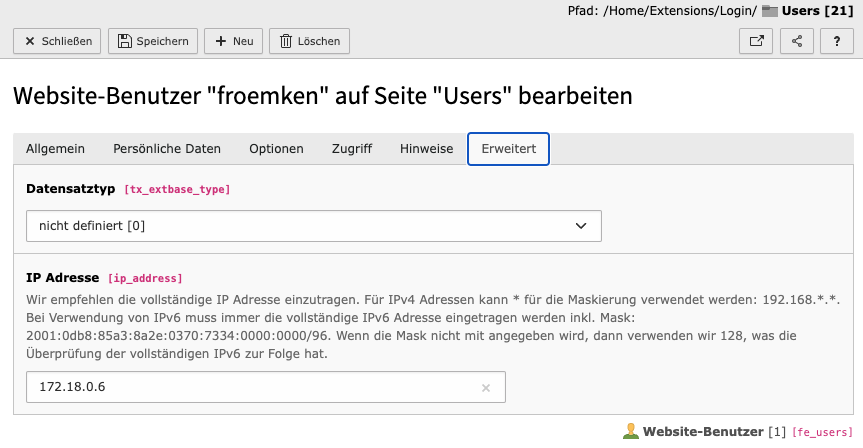
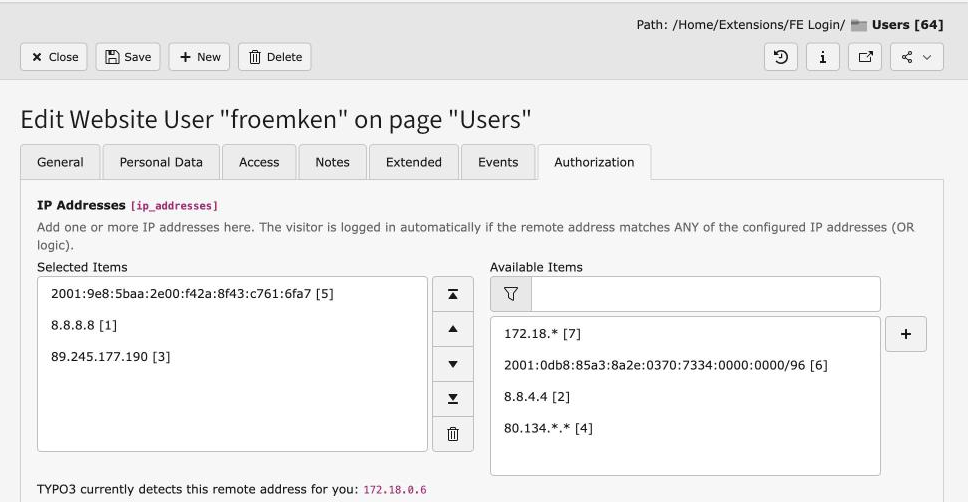
Fix remote address detection and refresh docs screenshot (#15)
* [DOCS] Update outdated screenshot and widen it

Replace the Introduction screenshot with a current one
showing the new Authorization tab and IP Addresses field on
TYPO3 13. Switch from image to figure, drop the fixed
400px width so it uses the full content width, and add a
caption and lightbox zoom.

* [BUGFIX] Detect exactly one remote address, not two

A single HTTP request only ever carries one REMOTE_ADDR of
one address family. The previous code additionally treated
an IPv4-mapped IPv6 notation (::ffff:x.x.x.x) as if it were
a second, independently detected address, which conflated a
formatting quirk of a single connection with a visitor
actually having both an IPv4 and an IPv6 address.

Simplify RemoteAddressDetector::detect() to return the one
address TYPO3 actually resolved, still labelled with its
version. The remoteAddress field wizard and the ip_address
valuePicker share this single detector, so both were fixed
in one place.

---------

diff --git a/Classes/Form/FormDataProvider/AddDetectedIpAddressesToValuePicker.php b/Classes/Form/FormDataProvider/AddDetectedIpAddressesToValuePicker.php
@@ -11,19 +11,23 @@ declare(strict_types=1);
 
 namespace JWeiland\Jwauth\Form\FormDataProvider;
 
+use JWeiland\Jwauth\Service\RemoteAddressDetector;
 use TYPO3\CMS\Backend\Form\FormDataProviderInterface;
 use TYPO3\CMS\Core\Localization\LanguageService;
-use TYPO3\CMS\Core\Utility\GeneralUtility;
 
 /**
  * Adds the visitor's currently detected remote address to the valuePicker of
- * the ip_address field, so editors can pick it up directly instead of looking
- * it up separately.
+ * the ip_address field, so editors can pick it up directly instead of
+ * looking it up separately.
  */
 final class AddDetectedIpAddressesToValuePicker implements FormDataProviderInterface
 {
     private const TABLE_NAME = 'tx_jwauth_domain_model_ipaddress';
     private const FIELD_NAME = 'ip_address';
+
+    public function __construct(
+        private readonly RemoteAddressDetector $remoteAddressDetector,
+    ) {}
 
     public function addData(array $result): array
     {
@@ -33,60 +37,33 @@ final class AddDetectedIpAddressesToValuePicker implements FormDataProviderInter
             return $result;
         }
 
-        $detectedAddresses = $this->getDetectedIpAddresses();
-        if ($detectedAddresses === []) {
+        $detectedAddress = $this->remoteAddressDetector->detect();
+        if ($detectedAddress === null) {
             return $result;
         }
 
         $existingItems = $result['processedTca']['columns'][self::FIELD_NAME]['config']['valuePicker']['items'] ?? [];
         $result['processedTca']['columns'][self::FIELD_NAME]['config']['valuePicker']['items'] = array_merge(
             $existingItems,
-            $detectedAddresses,
+            [$this->buildValuePickerItem($detectedAddress)],
         );
 
         return $result;
     }
 
     /**
-     * A dual-stack webserver may expose an IPv4 client through an IPv4-mapped
-     * IPv6 address (e.g. "::ffff:203.0.113.5"). In that case, offer both
-     * notations, since an address stored in the other notation would not
-     * match it with GeneralUtility::cmpIP().
-     *
-     * @return list<array{0: string, 1: string}>
-     */
-    private function getDetectedIpAddresses(): array
-    {
-        $remoteAddress = GeneralUtility::getIndpEnv('REMOTE_ADDR');
-        if (!GeneralUtility::validIP($remoteAddress)) {
-            return [];
-        }
-
-        if (preg_match('/^::ffff:(\d+\.\d+\.\d+\.\d+)$/i', $remoteAddress, $matches)) {
-            return [
-                $this->buildValuePickerItem('valuePicker.detectedIpv6Address', $remoteAddress),
-                $this->buildValuePickerItem('valuePicker.detectedIpv4Address', $matches[1]),
-            ];
-        }
-
-        $labelKey = str_contains($remoteAddress, ':') ? 'valuePicker.detectedIpv6Address' : 'valuePicker.detectedIpv4Address';
-
-        return [
-            $this->buildValuePickerItem($labelKey, $remoteAddress),
-        ];
-    }
-
-    /**
+     * @param array{version: string, address: string} $detectedAddress
      * @return array{0: string, 1: string}
      */
-    private function buildValuePickerItem(string $labelKey, string $ipAddress): array
+    private function buildValuePickerItem(array $detectedAddress): array
     {
+        $labelKey = $detectedAddress['version'] === 'IPv6' ? 'valuePicker.detectedIpv6Address' : 'valuePicker.detectedIpv4Address';
         $label = sprintf(
             $this->getLanguageService()->sL('LLL:EXT:jwauth/Resources/Private/Language/locallang_db.xlf:' . $labelKey),
-            $ipAddress,
+            $detectedAddress['address'],
         );
 
-        return [$label, $ipAddress];
+        return [$label, $detectedAddress['address']];
     }
 
     private function getLanguageService(): LanguageService

diff --git a/Classes/Form/FieldWizard/RemoteAddress.php b/Classes/Form/FieldWizard/RemoteAddress.php
@@ -11,28 +11,37 @@ declare(strict_types=1);
 
 namespace JWeiland\Jwauth\Form\FieldWizard;
 
+use JWeiland\Jwauth\Service\RemoteAddressDetector;
 use TYPO3\CMS\Backend\Form\AbstractNode;
 use TYPO3\CMS\Core\Localization\LanguageService;
-use TYPO3\CMS\Core\Utility\GeneralUtility;
 
 /**
- * Shows the REMOTE_ADDR TYPO3 currently resolves for the visitor below the
- * IP address field. Helpful, as e.g. reverse proxies or local Docker setups
- * let $_SERVER['REMOTE_ADDR'] differ heavily from the address a user should
- * configure in ip_addresses/ip_address.
+ * Shows the remote address TYPO3 currently resolves for the visitor below
+ * the IP address field. Helpful, as e.g. reverse proxies or local Docker
+ * setups let $_SERVER['REMOTE_ADDR'] differ heavily from the address a user
+ * should configure in ip_addresses/ip_address.
  */
 class RemoteAddress extends AbstractNode
 {
+    public function __construct(
+        private readonly RemoteAddressDetector $remoteAddressDetector,
+    ) {}
+
     public function render(): array
     {
         $result = $this->initializeResultArray();
 
-        $label = $this->getLanguageService()->sL(
-            'LLL:EXT:jwauth/Resources/Private/Language/locallang_db.xlf:fieldWizard.remoteAddress',
-        );
-        $remoteAddress = htmlspecialchars(strip_tags(GeneralUtility::getIndpEnv('REMOTE_ADDR')));
+        $detectedAddress = $this->remoteAddressDetector->detect();
+        if ($detectedAddress === null) {
+            return $result;
+        }
 
-        $result['html'] = '<div class="form-text">' . htmlspecialchars($label) . ' <code>' . $remoteAddress . '</code></div>';
+        $label = sprintf(
+            $this->getLanguageService()->sL('LLL:EXT:jwauth/Resources/Private/Language/locallang_db.xlf:fieldWizard.remoteAddress'),
+            $detectedAddress['version'],
+        );
+
+        $result['html'] = '<div class="form-text">' . htmlspecialchars($label) . ' <code>' . htmlspecialchars($detectedAddress['address']) . '</code></div>';
 
         return $result;
     }

diff --git a/Classes/Service/RemoteAddressDetector.php b/Classes/Service/RemoteAddressDetector.php
@@ -1,0 +1,41 @@
+<?php
+
+declare(strict_types=1);
+
+/*
+ * This file is part of the package jweiland/jwauth.
+ *
+ * For the full copyright and license information, please read the
+ * LICENSE file that was distributed with this source code.
+ */
+
+namespace JWeiland\Jwauth\Service;
+
+use TYPO3\CMS\Core\Utility\GeneralUtility;
+
+/**
+ * Detects the visitor's remote address as resolved by TYPO3. Used by the
+ * remoteAddress field wizard and by AddDetectedIpAddressesToValuePicker, so
+ * both places agree on the same IPv4/IPv6 detection logic.
+ */
+class RemoteAddressDetector
+{
+    private const IPV4 = 'IPv4';
+    private const IPV6 = 'IPv6';
+
+    /**
+     * @return array{version: string, address: string}|null
+     */
+    public function detect(): ?array
+    {
+        $remoteAddress = GeneralUtility::getIndpEnv('REMOTE_ADDR');
+        if (!GeneralUtility::validIP($remoteAddress)) {
+            return null;
+        }
+
+        return [
+            'version' => str_contains($remoteAddress, ':') ? self::IPV6 : self::IPV4,
+            'address' => $remoteAddress,
+        ];
+    }
+}

diff --git a/Documentation/Introduction/Index.rst b/Documentation/Introduction/Index.rst
@@ -33,7 +33,9 @@ Screenshot
 Here you see the new `IP addresses` relation field in the `fe_users` record.
 Each entry is its own small record holding one IP address or pattern.
 
-..  image:: /Images/Introduction.png
+..  figure:: /Images/Introduction.png
     :alt: New IP addresses field in fe_users record
     :class: with-shadow
-    :width: 400px
+    :zoom: lightbox
+
+    The `IP addresses` field on the `fe_users` edit form
